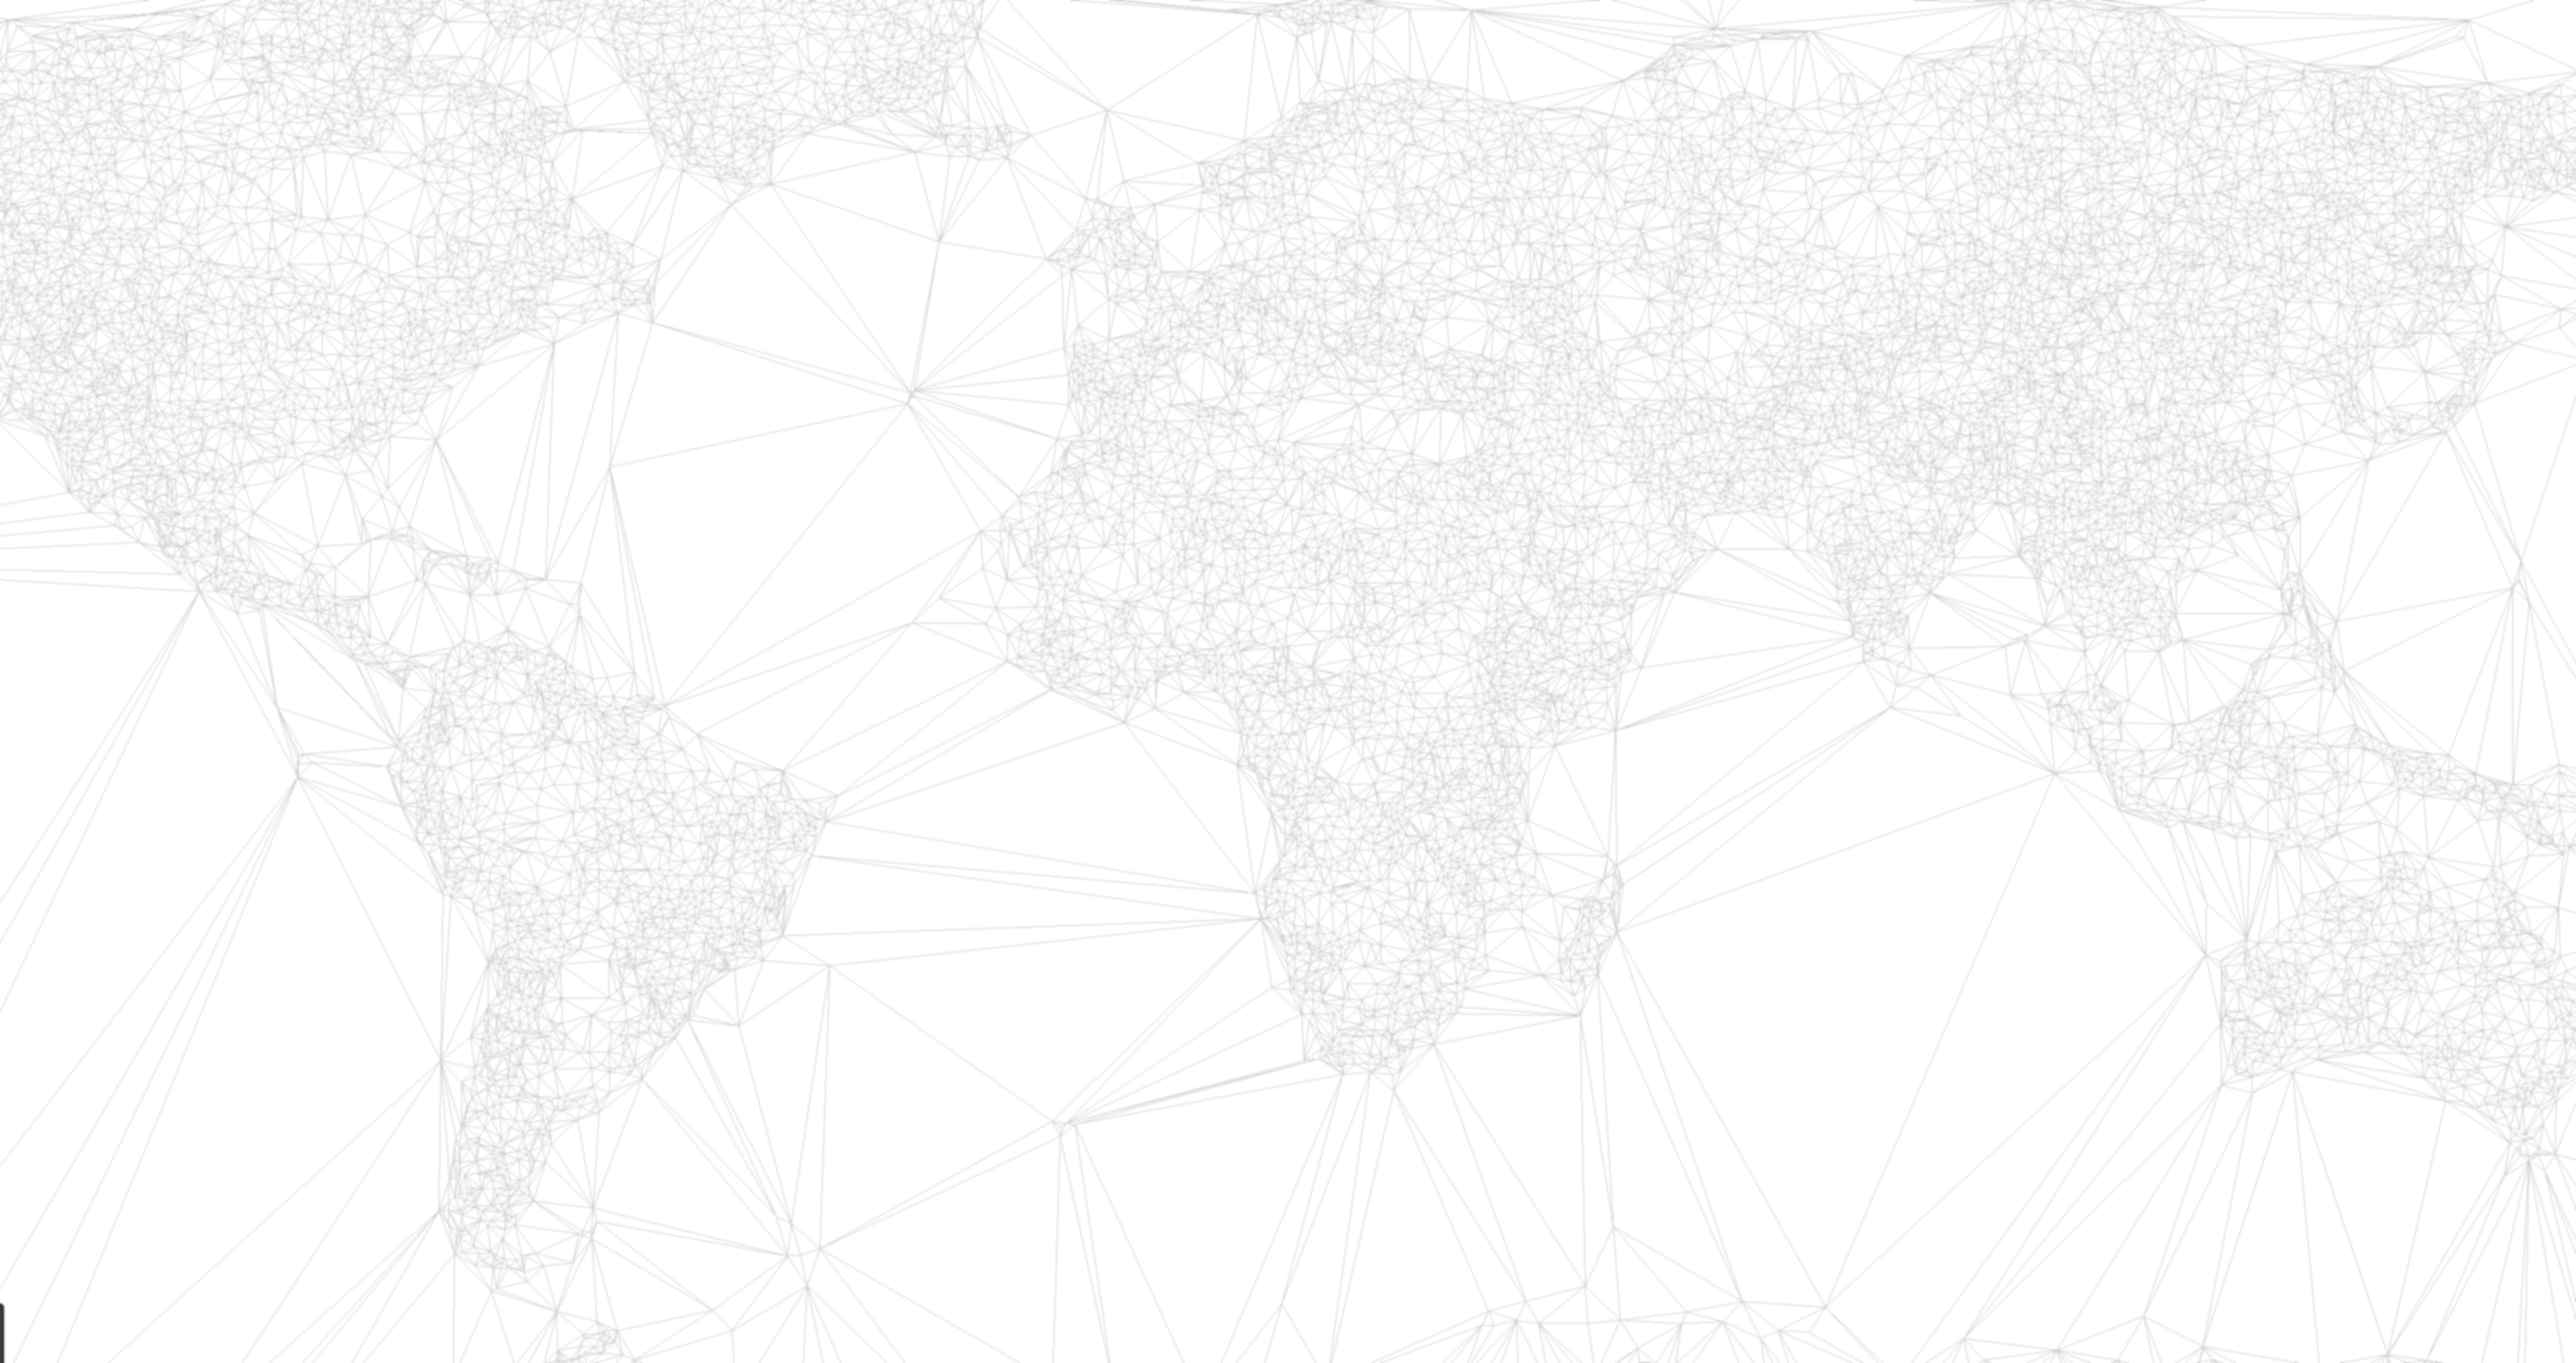
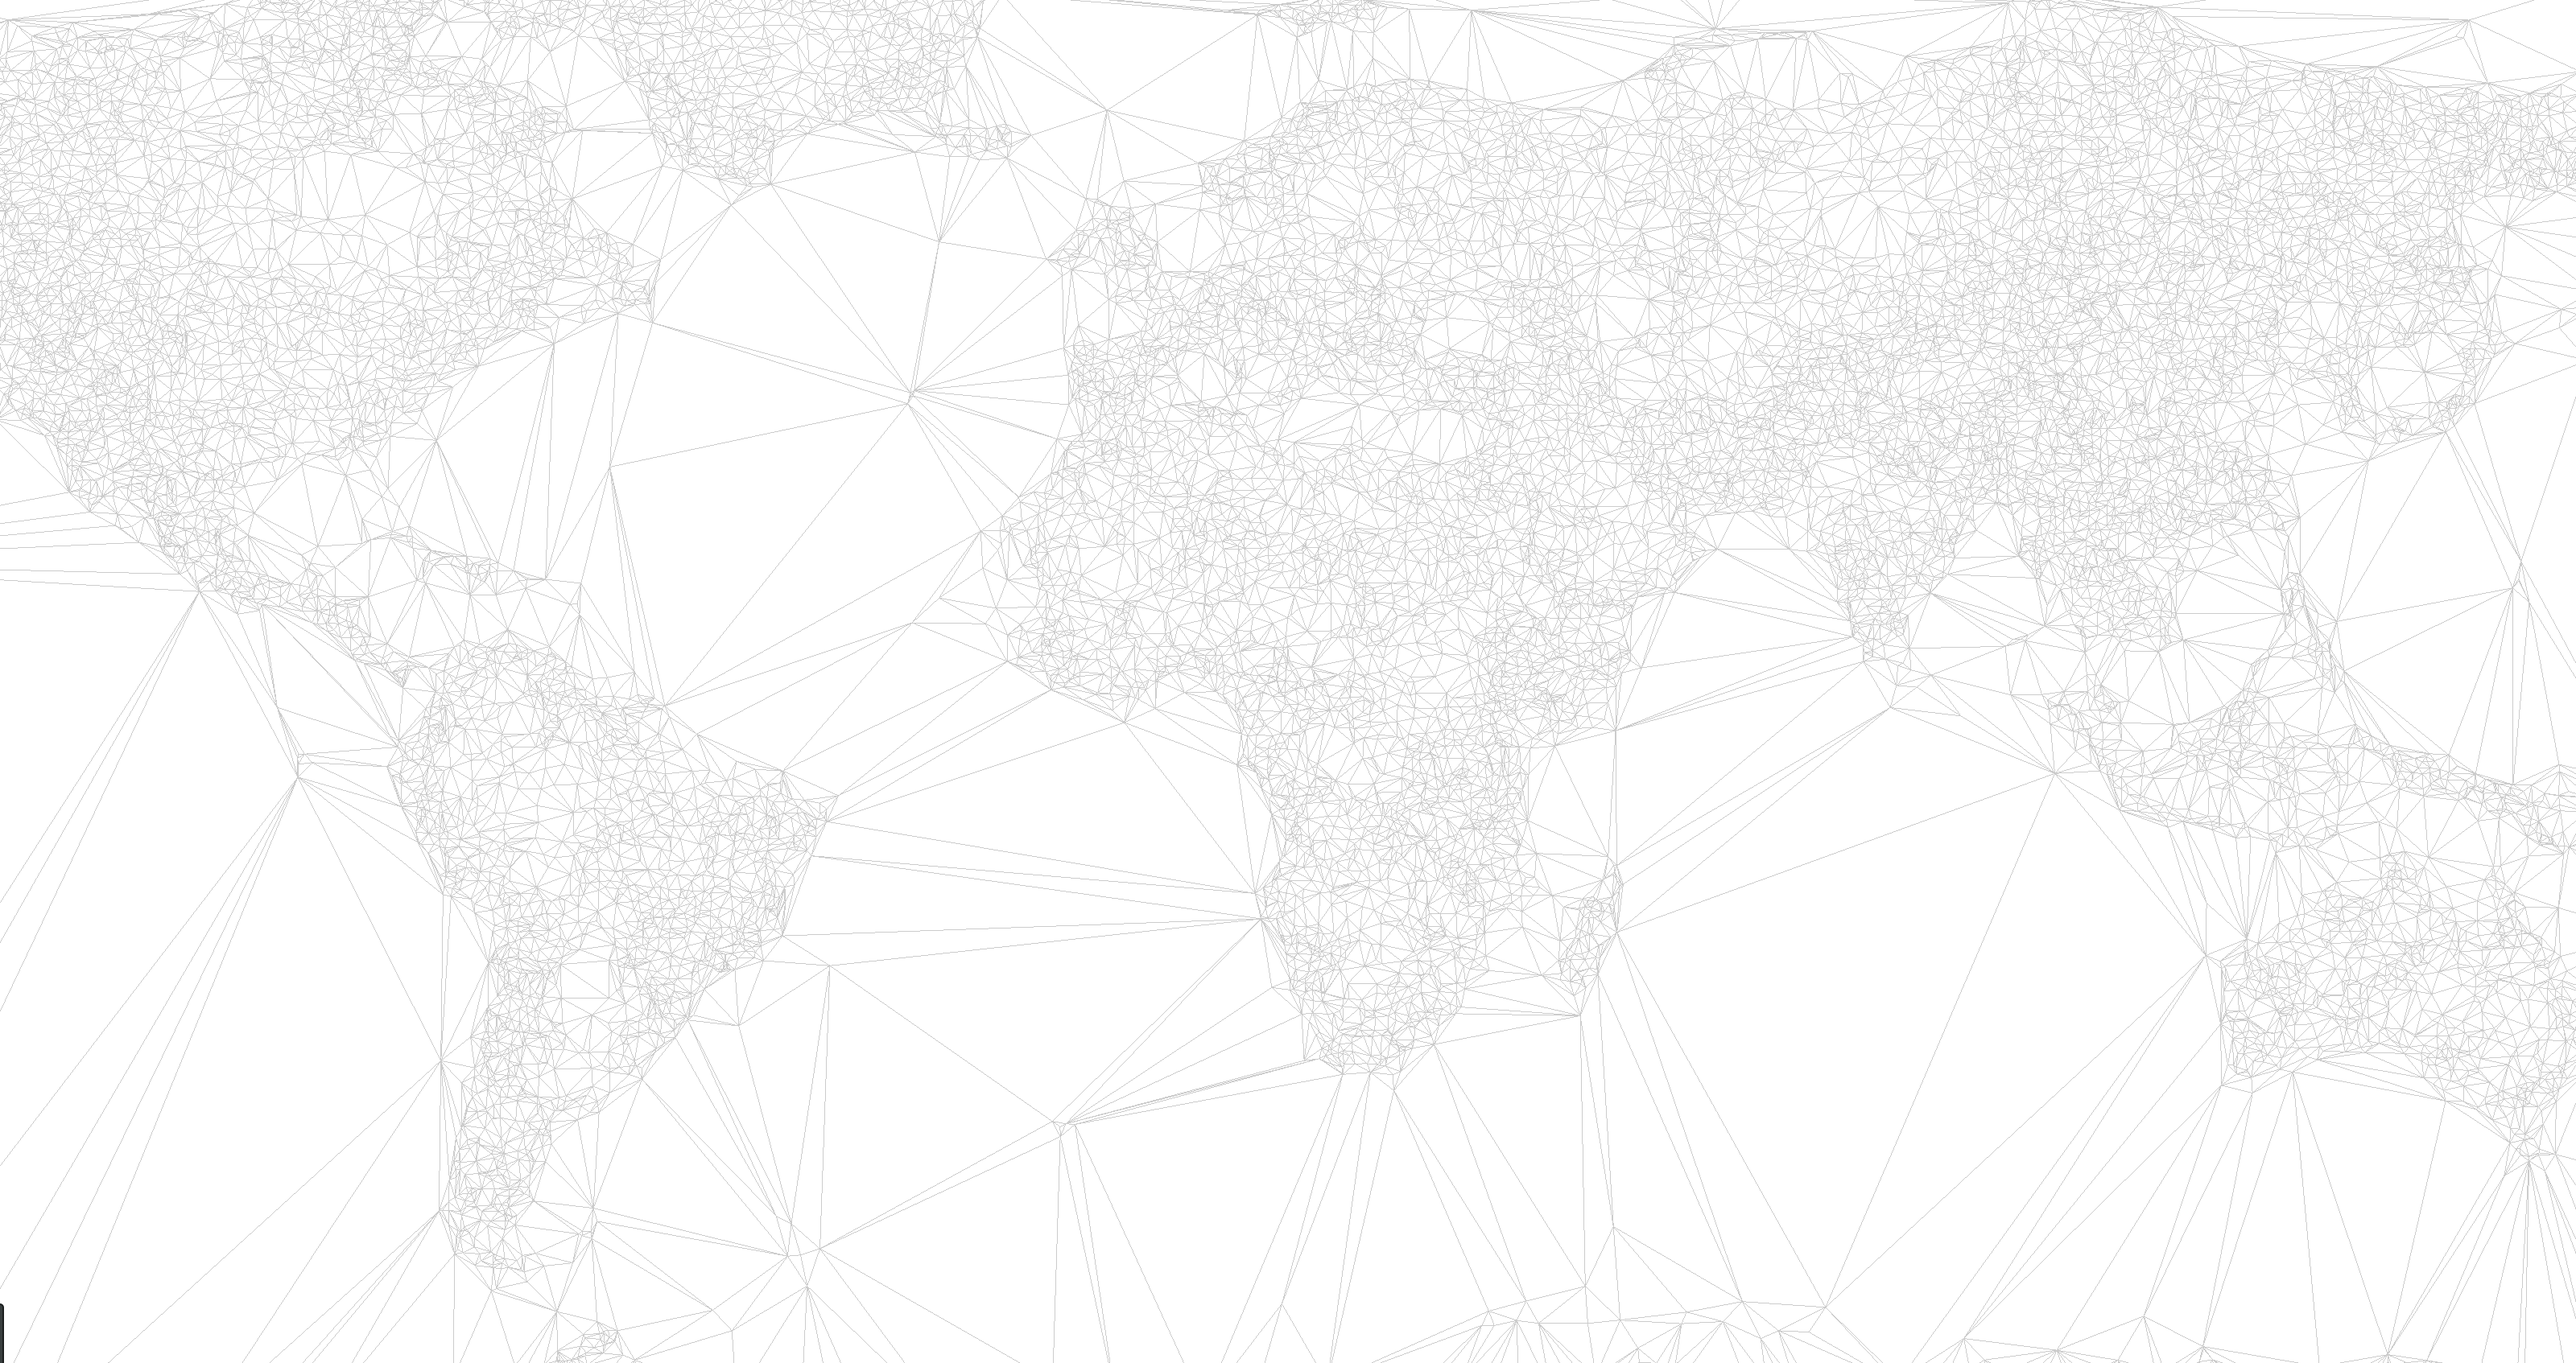
deblur, re radius

diff --git a/ressources/css/client-min.css b/ressources/css/client-min.css
@@ -1,1 +1,1 @@
-*{box-sizing:border-box}html,body{height:100%}body{width:100%;margin:0 auto;font:normal 75% OpenSansRegular;line-height:1.5;color:#444;background-image:url('../img/background.png');background-attachment:fixed;background-size:cover;background-position:center}a{cursor:pointer;text-decoration:none;color:#3079ab}a.button{display:inline-block;margin:6px;padding:6px;box-shadow:1px 1px 0 #2e2e2e;background:rgba(66,66,66,0.8);border-radius:5px;color:#fff;font-size:16px;font-weight:bold;text-align:center}a.button:hover{box-shadow:1px 1px 0 #424242;background:rgba(87,87,87,0.8)}a.button:active{box-shadow:1px 1px 0 #141414;background:rgba(40,40,40,0.8)}p{text-align:justify;text-indent:1em}p.noindent{text-indent:0}.flex{display:-webkit-flex;display:flex}.flex.column{-webkit-flex-direction:column;flex-direction:column}.flex.row{-webkit-flex-direction:row;flex-direction:row}.flex.nowrap{-webkit-flex-wrap:nowrap;flex-wrap:nowrap}.flex.wrap{-webkit-flex-wrap:wrap;flex-wrap:wrap}.flex.wrap-reverse{-webkit-flex-wrap:wrap-reverse;flex-wrap:wrap-reverse}.isflex{-webkit-flex:1;flex:1}.isnoflex{-webkit-flex:0;flex:0}.nooverflow{overflow:hidden}#page{min-height:100%;padding:0}#page.with-header{padding-top:140px}#page.with-footer{padding-bottom:32px}main,aside{background:rgba(255,255,255,0.8)}main{flex:75%}aside{flex:25%}main:not(:last-child){padding:5px}aside:not(:first-child){padding:15px;border-left:1px solid #DDD}.tab{height:100%}header{position:fixed;top:0;z-index:100000;width:100%;height:140px;padding:20px 0;border-bottom:1px solid #DDD;background:#fff;overflow:hidden}header.dark{border-bottom:0;color:#fff;background:#4d4d4d}header #name{position:relative;z-index:10;display:block;float:left;height:70px;width:calc(100% - 100px);font-size:36px}header #picture{position:relative;z-index:4;display:block;float:right;height:100px;width:100px}header #nav{position:relative;z-index:1;overflow:hidden;display:block;margin:0;padding:0;float:left;height:30px;width:calc(100% - 100px)}header #nav li{margin-right:20px;list-style:none;float:left}header #nav li.current a{color:#333;border-bottom:2px solid #94cc5f}header.dark #nav li.current a{color:#EEE}header #nav a{font-size:20px;color:#888;text-decoration:none}header.dark #nav a{color:#BBB}#parallax{width:100%;height:0}#parallax .plan1{padding:0 0 0 200px;z-index:1}#parallax .plan2{padding:0 0 0 200px;z-index:2}#parallax .plan3{padding:0 0 0 200px;z-index:5}footer{position:fixed;bottom:0;z-index:100000;width:100%;padding:8px 0;border-top:1px solid #DDD;background:#fff}footer #social{display:inline;float:left;min-width:100px;margin:0;padding:0}footer #social li{margin-right:6px;list-style:none;float:left}footer #social img{margin-right:3px;vertical-align:middle;display:inline-block;height:16px}footer #mininav{display:inline;float:right;min-width:100px;margin:0;padding:0}footer #mininav li{display:inline;margin-right:6px;padding-right:6px;border-right:1px solid #DDD;list-style:none}footer #mininav .top{margin-right:0;padding-right:0;border-right:0}footer #mininav .top a{color:#999}ul{list-style-type:disc;padding-left:.5em;margin:0 0 1.5em 1.5em}.label{border-left-width:4px;border-left-style:solid;padding-left:10px}.label-orange{border-left-color:#fa8f6f}.label-green{border-left-color:#b7d897}.label-blue{border-left-color:#55aada}.label-purple{border-left-color:#669}.green{color:#32cd32}.blue{color:#4169e1}.orange{color:#ff8c00}.red{color:red}.block{width:100.000%}.block.quarter{width:25.000%}.block.third{width:33.333%}.block.half{width:50.000%}.block.twothird{width:66.666%}.block.treequarter{width:75.000%}.block.full{width:100.000%}.block.expandable.expanded{width:100%}.block.expanded .content{display:block}.block:not(.expanded) .content{display:none}main section{width:100%}main article{margin:5px;padding:6px;border-radius:3px}main .block.bordered article{background:#fff;border-top:1px solid #EEE;border-left:1px solid #EEE;border-bottom:1px solid #BBB;border-right:1px solid #BBB}main article h1{margin:0;font-weight:normal;font-size:22px;white-space:nowrap;overflow:hidden;text-overflow:ellipsis}main article h5{margin:0;font-weight:normal;text-align:right}main article .content{margin-top:10px;overflow:hidden;text-overflow:ellipsis}main article .bibentry{padding:0 10px}main article .bibtitle{display:block;font-weight:bold}main article .bibauthor{display:block}main article .bibref{display:block;padding-bottom:5px;font-style:italic;color:#888}main article .bibref a{margin-left:5px;color:#88F}main article .bibtray{display:flex;border-bottom:1px solid #BBB;border-right:1px solid #BBB;border-top:1px solid #EEE;border-left:1px solid #EEE;padding:5px 5px 5px 10px}main article .bibtray div:not(:first-child){padding-left:5px}main article .bibtray div:not(:last-child){padding-right:5px;border-right:1px solid #DDD}main article .bibabstract{text-align:justify;color:#444;flex:1 60%}main article .bibtex{font-size:80%;white-space:pre-wrap;color:#888;flex:1 40%}aside article{padding-bottom:10px}aside h1{margin:0 0 10px 0;font-weight:normal;font-size:24px}#copyright{border-top:1px solid #EEE;padding-top:8px;text-align:center;font-size:10px;color:#AAA}#copyright a{color:#99C}.popup{min-width:1000px;border-radius:6px;border:0;color:#fff;background:rgba(45,45,45,0.95);box-shadow:0 10px 20px #2d2d2d;text-align:center;font-size:18px}.popup h4{margin:10px}.popup a.button{display:inline-block;width:100px;padding:6px;margin:6px;border:1px solid #4c4c4c;border-radius:5px;color:#fff;background:#424242;font-size:22px;font-weight:bold}.popup a.button:hover{border:1px solid #626262;background:#575757}.popup a.button:active{border:1px solid #4c4c4c;background:#282828}.popup input[type='text']{margin:3px;padding:5px 10px 5px 10px;width:40%;border-radius:3px;border:1px solid #696969;color:#fff;background:#626262;font-size:22px}.popup input[type='text'].block{display:block;width:80%;margin-left:auto;margin-right:auto}@media only screen and (max-width:1000px){header,footer,#page{padding-left:20px;padding-right:20px}}@media only screen and (min-width:1000px){header,footer,#page{padding-left:calc((100% - 960px) / 2);padding-right:calc((100% - 960px) / 2)}}
+*{box-sizing:border-box}html,body{height:100%}body{width:100%;margin:0 auto;font:normal 75% OpenSansRegular;line-height:1.5;color:#444;background-image:url('../img/background.png');background-attachment:fixed;background-size:cover;background-position:center}a{cursor:pointer;text-decoration:none;color:#3079ab}a.button{display:inline-block;margin:6px;padding:6px;box-shadow:1px 1px 0 #2e2e2e;background:rgba(66,66,66,0.8);border-radius:5px;color:#fff;font-size:16px;font-weight:bold;text-align:center}a.button:hover{box-shadow:1px 1px 0 #424242;background:rgba(87,87,87,0.8)}a.button:active{box-shadow:1px 1px 0 #141414;background:rgba(40,40,40,0.8)}p{text-align:justify;text-indent:1em}p.noindent{text-indent:0}.flex{display:-webkit-flex;display:flex}.flex.column{-webkit-flex-direction:column;flex-direction:column}.flex.row{-webkit-flex-direction:row;flex-direction:row}.flex.nowrap{-webkit-flex-wrap:nowrap;flex-wrap:nowrap}.flex.wrap{-webkit-flex-wrap:wrap;flex-wrap:wrap}.flex.wrap-reverse{-webkit-flex-wrap:wrap-reverse;flex-wrap:wrap-reverse}.isflex{-webkit-flex:1;flex:1}.isnoflex{-webkit-flex:0;flex:0}.nooverflow{overflow:hidden}#page{min-height:100%;padding:0}#page.with-header{padding-top:140px}#page.with-footer{padding-bottom:32px}main,aside{background:rgba(255,255,255,0.8)}main{flex:75%}aside{flex:25%}main:not(:last-child){padding:5px}aside:not(:first-child){padding:15px;border-left:1px solid #DDD}.tab{height:100%}header{position:fixed;top:0;z-index:100000;width:100%;height:140px;padding:20px 0;border-bottom:1px solid #DDD;background:#fff;overflow:hidden}header.dark{border-bottom:0;color:#fff;background:#4d4d4d}header #name{position:relative;z-index:10;display:block;float:left;height:70px;width:calc(100% - 100px);font-size:36px}header #picture{position:relative;z-index:4;display:block;float:right;height:100px;width:100px}header #nav{position:relative;z-index:1;overflow:hidden;display:block;margin:0;padding:0;float:left;height:30px;width:calc(100% - 100px)}header #nav li{margin-right:20px;list-style:none;float:left}header #nav li.current a{color:#333;border-bottom:2px solid #94cc5f}header.dark #nav li.current a{color:#EEE}header #nav a{font-size:20px;color:#888;text-decoration:none}header.dark #nav a{color:#BBB}#parallax{width:100%;height:0}#parallax .plan1{padding:0 0 0 200px;z-index:1}#parallax .plan2{padding:0 0 0 200px;z-index:2}#parallax .plan3{padding:0 0 0 200px;z-index:5}footer{position:fixed;bottom:0;z-index:100000;width:100%;padding:8px 0;border-top:1px solid #DDD;background:#fff}footer #social{display:inline;float:left;min-width:100px;margin:0;padding:0}footer #social li{margin-right:6px;list-style:none;float:left}footer #social img{margin-right:3px;vertical-align:middle;display:inline-block;height:16px}footer #mininav{display:inline;float:right;min-width:100px;margin:0;padding:0}footer #mininav li{display:inline;margin-right:6px;padding-right:6px;border-right:1px solid #DDD;list-style:none}footer #mininav .top{margin-right:0;padding-right:0;border-right:0}footer #mininav .top a{color:#999}ul{list-style-type:disc;padding-left:.5em;margin:0 0 1.5em 1.5em}.label{border-left-width:4px;border-left-style:solid;padding-left:10px}.label-orange{border-left-color:#fa8f6f}.label-green{border-left-color:#b7d897}.label-blue{border-left-color:#55aada}.label-purple{border-left-color:#669}.green{color:#32cd32}.blue{color:#4169e1}.orange{color:#ff8c00}.red{color:red}.block{width:100.000%}.block.quarter{width:25.000%}.block.third{width:33.333%}.block.half{width:50.000%}.block.twothird{width:66.666%}.block.treequarter{width:75.000%}.block.full{width:100.000%}.block.expandable.expanded{width:100%}.block.expanded .content{display:block}.block:not(.expanded) .content{display:none}main section{width:100%}main article{margin:5px;padding:6px;border-radius:5px}main .block.bordered article{background:#fff;border-top:1px solid #EEE;border-left:1px solid #EEE;border-bottom:1px solid #BBB;border-right:1px solid #BBB}main article h1{margin:0;font-weight:normal;font-size:22px;white-space:nowrap;overflow:hidden;text-overflow:ellipsis}main article h5{margin:0;font-weight:normal;text-align:right}main article .content{margin-top:10px;overflow:hidden;text-overflow:ellipsis}main article .bibentry{padding:0 10px}main article .bibtitle{display:block;font-weight:bold}main article .bibauthor{display:block}main article .bibref{display:block;padding-bottom:5px;font-style:italic;color:#888}main article .bibref a{margin-left:5px;color:#88F}main article .bibtray{display:flex;border-bottom:1px solid #BBB;border-right:1px solid #BBB;border-top:1px solid #EEE;border-left:1px solid #EEE;padding:5px 5px 5px 10px}main article .bibtray div:not(:first-child){padding-left:5px}main article .bibtray div:not(:last-child){padding-right:5px;border-right:1px solid #DDD}main article .bibabstract{text-align:justify;color:#444;flex:1 60%}main article .bibtex{font-size:80%;white-space:pre-wrap;color:#888;flex:1 40%}aside article{padding-bottom:10px}aside h1{margin:0 0 10px 0;font-weight:normal;font-size:24px}#copyright{border-top:1px solid #EEE;padding-top:8px;text-align:center;font-size:10px;color:#AAA}#copyright a{color:#99C}.popup{min-width:1000px;border-radius:6px;border:0;color:#fff;background:rgba(45,45,45,0.95);box-shadow:0 10px 20px #2d2d2d;text-align:center;font-size:18px}.popup h4{margin:10px}.popup a.button{display:inline-block;width:100px;padding:6px;margin:6px;border:1px solid #4c4c4c;border-radius:5px;color:#fff;background:#424242;font-size:22px;font-weight:bold}.popup a.button:hover{border:1px solid #626262;background:#575757}.popup a.button:active{border:1px solid #4c4c4c;background:#282828}.popup input[type='text']{margin:3px;padding:5px 10px 5px 10px;width:40%;border-radius:3px;border:1px solid #696969;color:#fff;background:#626262;font-size:22px}.popup input[type='text'].block{display:block;width:80%;margin-left:auto;margin-right:auto}@media only screen and (max-width:1000px){header,footer,#page{padding-left:20px;padding-right:20px}}@media only screen and (min-width:1000px){header,footer,#page{padding-left:calc((100% - 960px) / 2);padding-right:calc((100% - 960px) / 2)}}

diff --git a/ressources/css/sources/main-client.css b/ressources/css/sources/main-client.css
@@ -67,7 +67,7 @@ main article
 {
 	margin:									5px;
 	padding:								6px;
-	border-radius:					3px;
+	border-radius:					5px;
 }
 main .block.bordered article
 {
